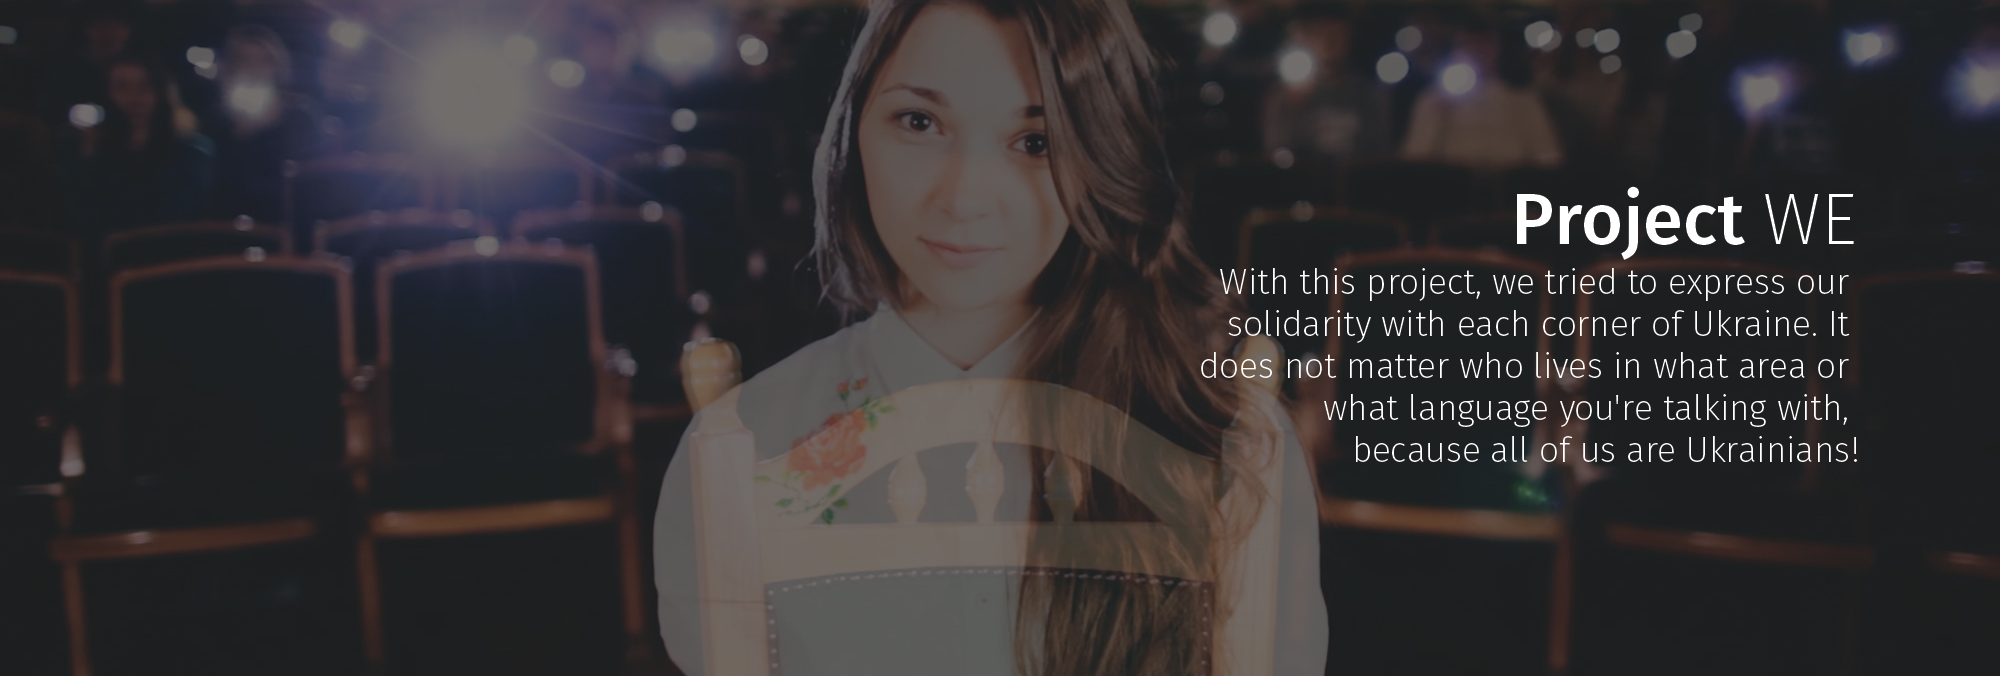
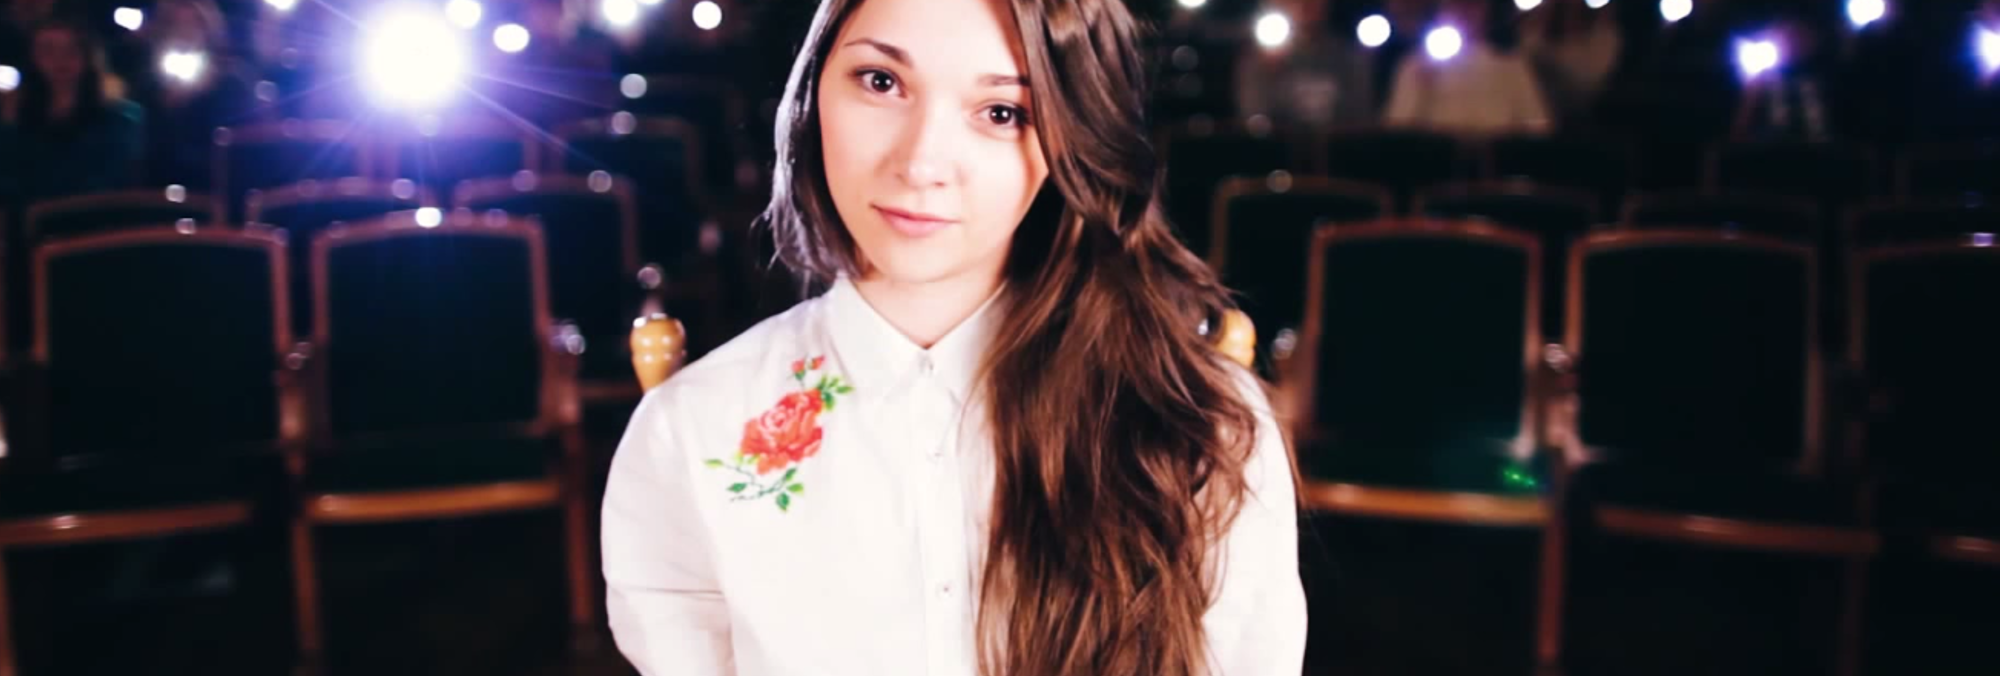
Added new project info

diff --git a/app/sections/projects/projects.scss b/app/sections/projects/projects.scss
@@ -1,30 +1,86 @@
-$project-header-radius: 20rem;
+$project-header-radius: 10rem;
 
 .project {
   display: block;
   height: 40rem;
+  color: #fff;
+  position: relative;
+
+  background-size: cover;
+  background-repeat: no-repeat;
+  background-position: center;
+
+  &:before {
+    content: "";
+    left: 0;
+    z-index: 0;
+    position: absolute;
+    display: block;
+    width: 100%;
+    height: 100%;
+    background-color: #000;
+    opacity: 0.6;
+  }
+
+  &.project-text-left {
+    text-align: left;
+  }
+
+  &.project-text-right {
+    text-align: right;
+  }
+
+  &.project-text-center {
+    text-align: center;
+  }
+}
+
+.project-we {
+  @extend .project;
+
+  background-image: url('../images/project_we.png');
 }
 
 .project-marta {
   @extend .project;
 
-  background: url('../images/project_we.png');
-  background-size: cover;
-  background-repeat: no-repeat;
-  background-position: center;
+  background-image: url('../images/project_marta.png');
 }
 
 .project-header {
-  position: relative;
-  width: $project-header-radius;
-  height: $project-header-radius;
-  line-height: $project-header-radius;
+  position: absolute;
+  width: $project-header-radius*2;
+  height: $project-header-radius*2;
+  line-height: $project-header-radius*2;
   color: #fff;
   font-size: 2rem;
   background-color: $contrast-color;
   text-align: center;
-  top: -$project-header-radius/2;
+  top: -$project-header-radius;
+  margin-bottom: -$project-header-radius;
   left: 50%;
-  margin-left: -$project-header-radius/2;
-  border-radius: $project-header-radius/2;
+  margin-left: -$project-header-radius;
+  border-radius: $project-header-radius;
+}
+
+.project-name {
+  font-size: 4.5rem;
+  margin-top: $project-header-radius;
+  font-weight: lighter;
+
+  strong {
+    font-weight: bold;
+  }
+}
+
+.project-description {
+  display: inline-block;
+  font-size: 2.4rem;
+  line-height: 1.25;
+  font-weight: lighter;
+  width: 50%;
+
+  @media (max-width: 720px) {
+    width: 100%;
+  }
 }

diff --git a/app/sections/home/home.scss b/app/sections/home/home.scss
@@ -62,7 +62,7 @@ section.hero {
     width: 60%;
   }
 
-  @media (min-width: 550) {
+  @media (min-width: 550px) {
     width: 80%;
   }
 }
